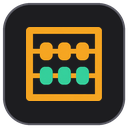
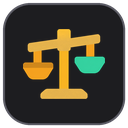
Use a merchant balance for Travian NPC Calculator

Changed region(s): [[0.1562, 0.1875, 0.8438, 0.8125]]

diff --git a/projects/travian-extensions/README.md b/projects/travian-extensions/README.md
@@ -15,7 +15,7 @@ Eight standalone browser extensions for Travian: forecasting, statistics history
 | <a id="travian-qol"></a>[Travian QoL](extensions/TravianQoL/) | Farm-list selection, reports and interface utilities | 1.3.8 |
 | <a id="rank-tracker"></a>[Rank Tracker](extensions/TravianRankTracker/) | Rankings, statistics history and comparison graphs | 5.1.6 |
 | <a id="next-settlement-calc"></a>[Next Settlement Calc](extensions/NextSettlementCalc/) | Culture-point forecasts and celebration planning | 2.6.18 |
-| <a id="npc-automerchant"></a>[Travian NPC Calculator](extensions/automerchant/) | Maximum troop counts and resource splits for the NPC Merchant | 3.2.18 |
+| <a id="npc-automerchant"></a>[Travian NPC Calculator](extensions/automerchant/) | Maximum troop counts and resource splits for the NPC Merchant | 3.2.19 |
 | <a id="night-mode"></a>[Night Mode](extensions/travian_night_mode/) | Persistent dark theme and button colours | 2.6.1 |
 | <a id="world-watch"></a>[World Watch](extensions/WorldWatch/) | World snapshots, spawn map, population gains, alliances and a 15c finder with oasis scoring | 1.7.2 |
 

diff --git a/projects/travian-extensions/extensions/automerchant/README.md b/projects/travian-extensions/extensions/automerchant/README.md
@@ -2,7 +2,7 @@
 
 See how many troops you can train after exchanging resources with the NPC Merchant. Calculate resource splits and see what your hero can cover without leaving Travian.
 
-**Version 3.2.18 · JavaScript · Manifest V3**
+**Version 3.2.19 · JavaScript · Manifest V3**
 
 [Usage guide](../../docs/USAGE.md#travian-npc-calculator) · [Installation](../../README.md#install-in-brave-chrome-or-edge) · [All extensions](../../README.md)
 

diff --git a/projects/travian-extensions/CHANGELOG.md b/projects/travian-extensions/CHANGELOG.md
@@ -1,5 +1,9 @@
 # Changelog
 
+## Travian NPC Calculator 3.2.19 — 2026-11-19
+
+- Replaces the abacus icon with a merchant's balance scale.
+
 ## TravAlarm 3.57 and Travian NPC Calculator 3.2.18 — 2026-11-19
 
 - TravAlarm has a new hourglass icon and a description that highlights incoming attack alerts and timers.
